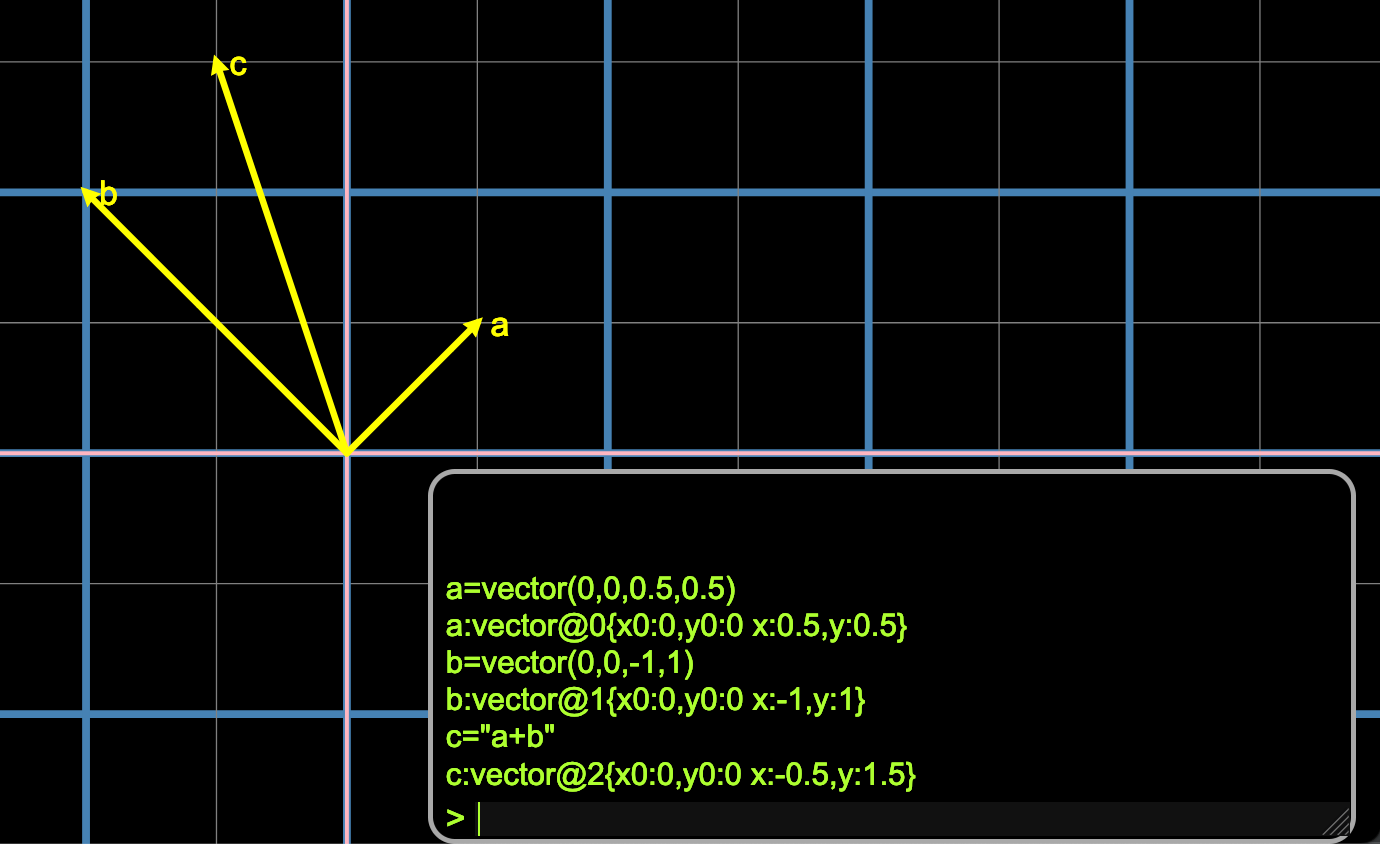
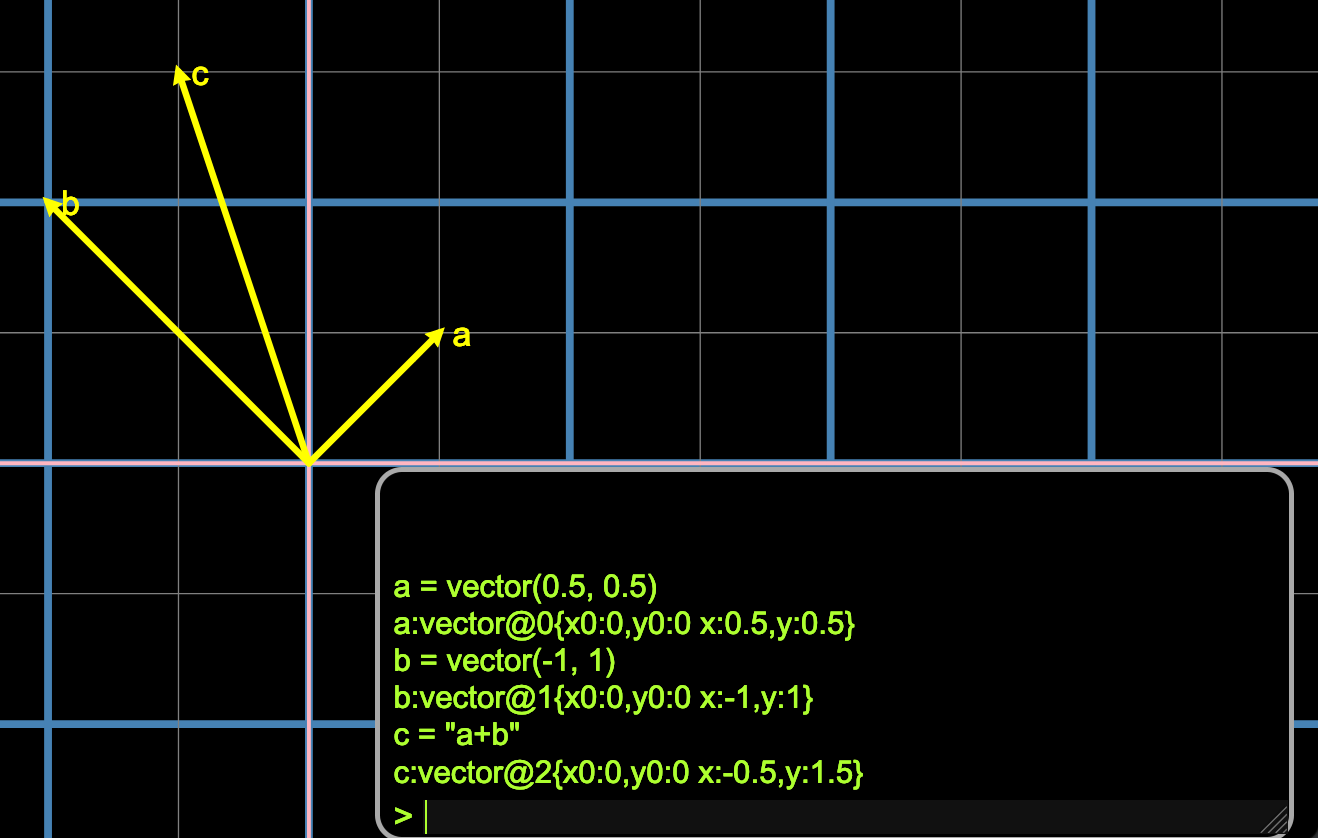
added defaults for the origin

Changed region(s): [[0.0, 0.0, 1.0, 1.0], [0.9643, 0.8377, 1.0, 0.8687], [0.9643, 0.6826, 1.0, 0.7136]]

diff --git a/src/js/console.js b/src/js/console.js
@@ -205,7 +205,13 @@ const method_call = function (object_wrapper, method_or_property) {
 
 const functions = {
     help: () => help(),
-    vector: (args) => create_vector({x0: args[0], y0: args[1], x: args[2], y: args[3]}),
+    vector: (args) => {
+        if (args.length === 2) {
+            return create_vector({x0: 0, y0: 0, x: args[0], y: args[1]});
+        } else {
+            return create_vector({x0: args[0], y0: args[1], x: args[2], y: args[3]});
+        }
+    },
     remove: (args) => {
         if (Object.prototype.hasOwnProperty.call(args[0], ['binding'])) {
             delete state[args[0].binding];

diff --git a/README.md b/README.md
@@ -14,7 +14,7 @@ The repl has the following syntax (It's work in progress, new capabilities will 
 * remove(x) removes bindings (when it's an object (eg vector), removes it from the matrix)
 * remove(@x) removes an object using it's assigned index 
 * method calls:
-  * a = vector(0,0,12,1)
+  * a = vector(12,1)
   > &gt; vector@0{x0:1, y0: 2, x:12, y:1}
   * a.type()
   > &gt; vector
@@ -33,9 +33,9 @@ The repl has the following syntax (It's work in progress, new capabilities will 
 * cmdline: npm run start
 * enter the following:
   ```
-  a=vector(0,0,0.5,0.5)
-  b=vector(0,0,-1,1)
-  c="a+b" 
+  a = vector(0.5, 0.5)
+  b = vector(-1, 1)
+  c = "a+b"
   ```
 * and press enter. Then using the mouse pointer move a or b. 
 * or type help()
